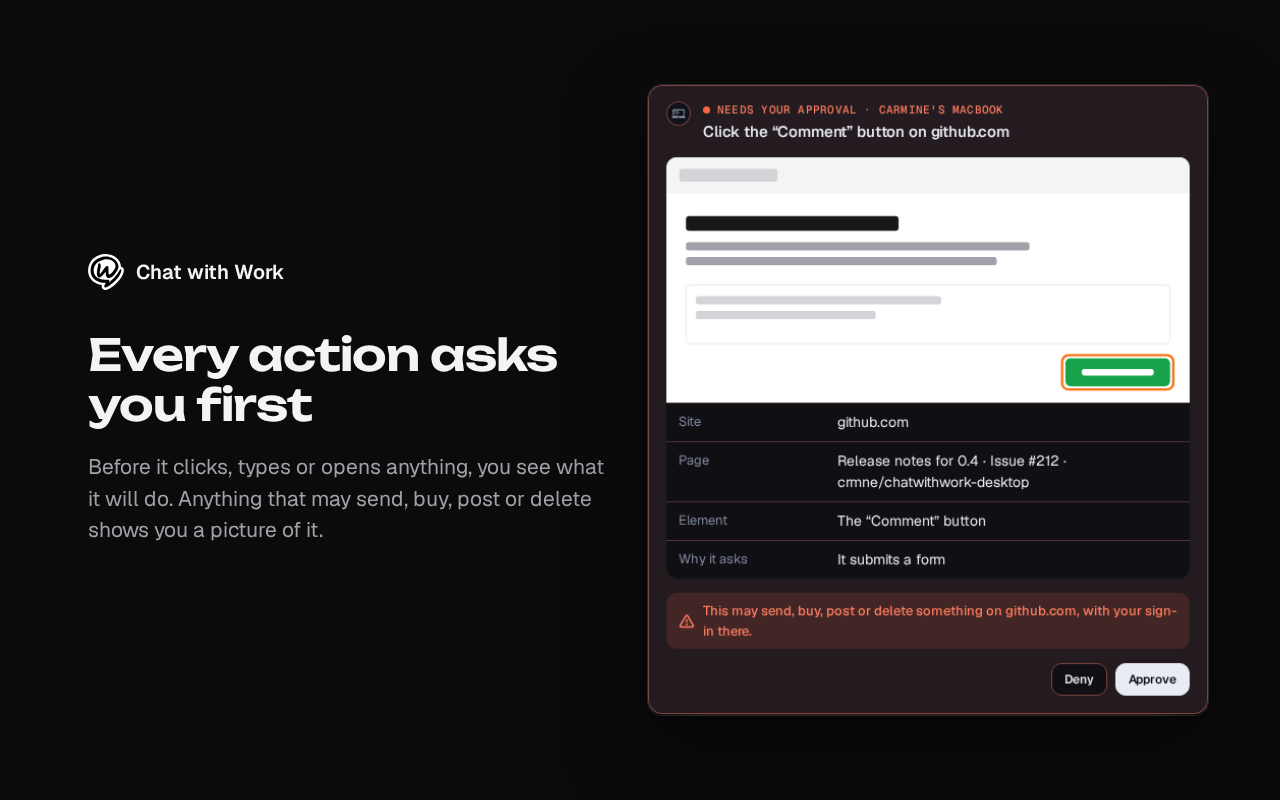
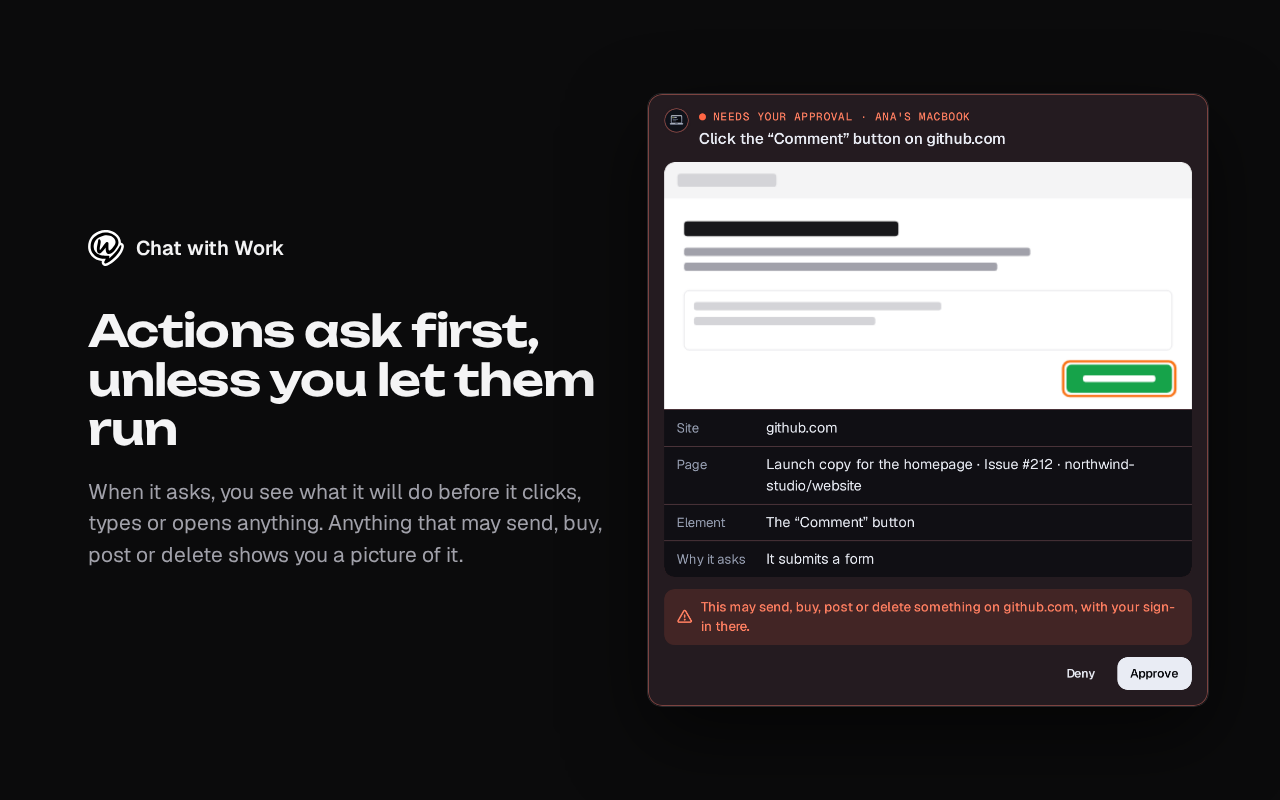
Say actions ask first unless you let them run (#134)

diff --git a/browser/store/listing.md b/browser/store/listing.md
@@ -20,7 +20,7 @@ What goes into each field of the Developer Dashboard for the Chat with Work exte
 >
 > It works only in its own tab group, "Chat with Work", in the background, so you keep using your other tabs. It reads a page the way a screen reader does, takes a screenshot when it needs to see the layout, scrolls and waits for pages to load.
 >
-> If you also allow actions, it can open pages on your allowed sites, click, type, choose from lists, close its tabs and save files into a folder you share. Every action asks you first in Chat with Work. Anything that may send, buy, post or delete something shows you a screenshot of the tab with the button outlined before you approve it.
+> If you also allow actions, it can open pages on your allowed sites, click, type, choose from lists, close its tabs and save files into a folder you share. Actions ask first, unless you let them run. Anything that may send, buy, post or delete something shows you a screenshot of the tab with the button outlined before you approve it.
 >
 > What it never does:
 > - Act on a tab outside its tab group, or on a site you didn't allow.
